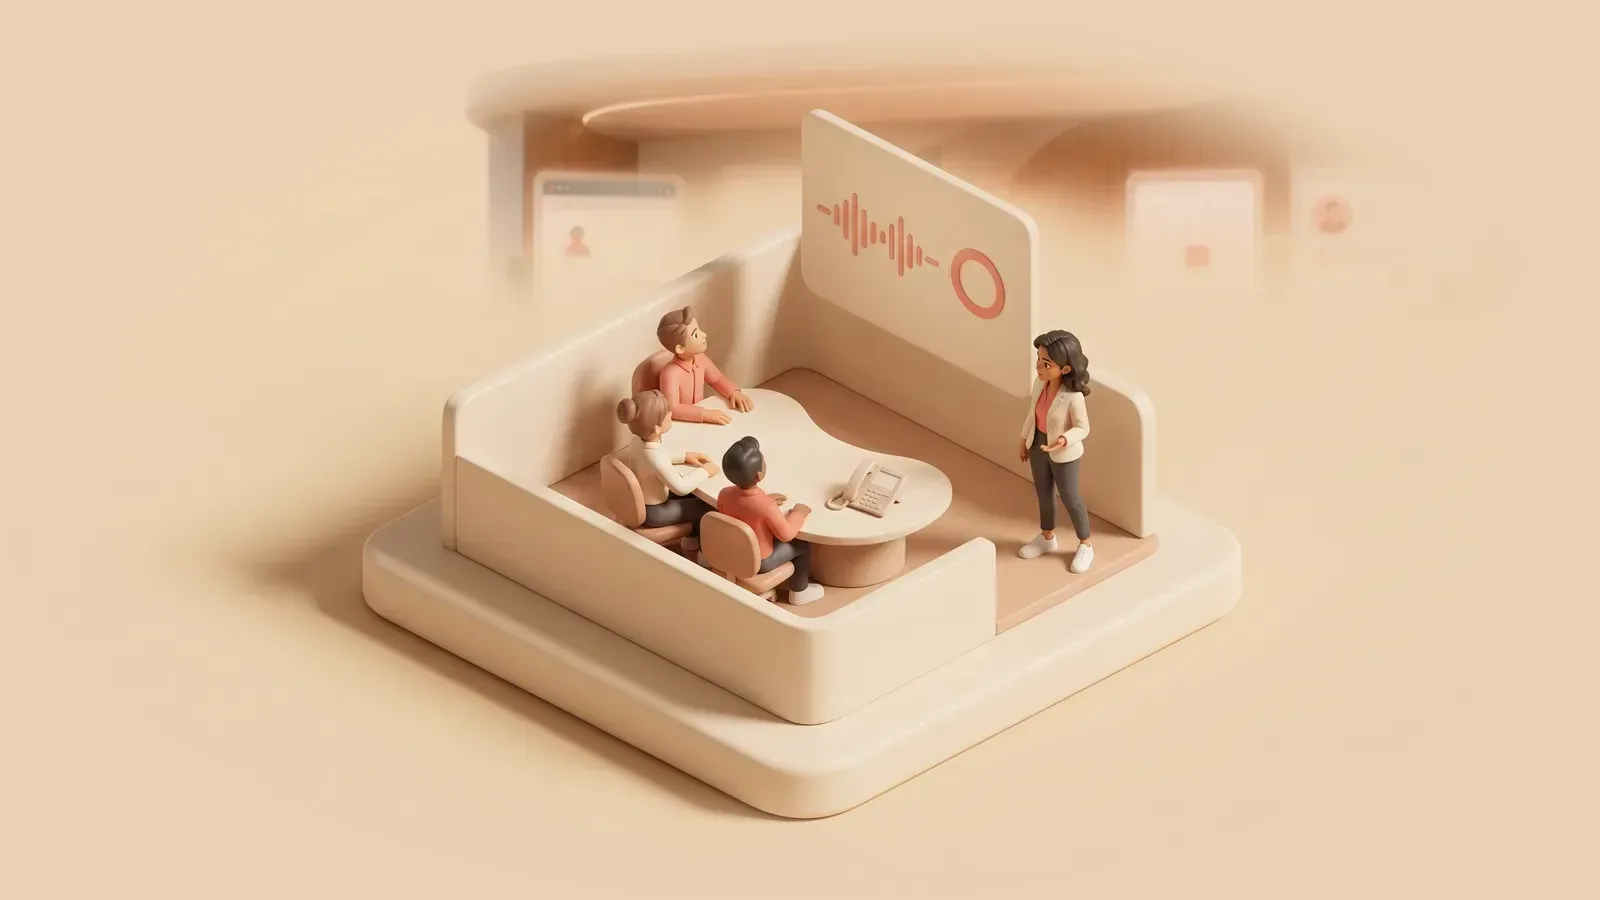
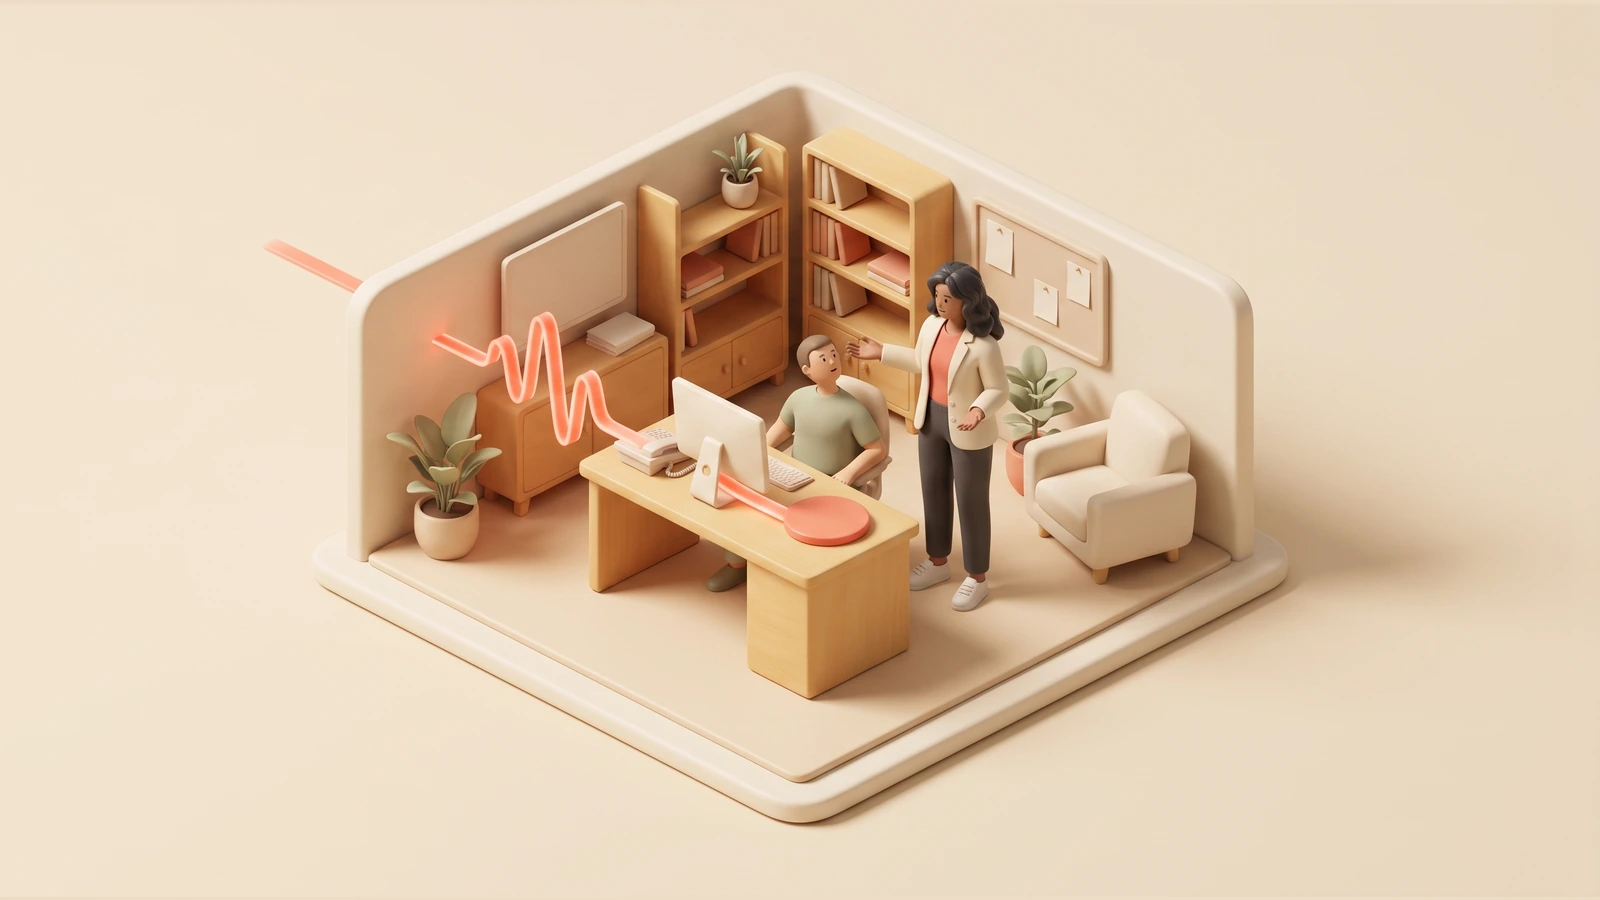
Land the receipt room, and drop the three.js experiment
The receipt chapter has carried blurred ghost interface panels in its background
since it was first rendered — a browser window with an avatar, two cards and a
smeared curve floating behind the room. Two attempts to replace it failed: the
first kept the ghosts, the second was conditioned on the commerce plate and came
back a near-duplicate of it, headsets and scooter and all.

The third works because the reference changed. Conditioned on the property
office — a quiet two-person room rather than a dispatch floor — with headsets,
cartons, the scooter and the handover ruled out by name, and the scene written
as what the chapter actually says: the waveform arrives from outside, crosses
the room and settles into one still coral disc on the desk. It is the only room
in the world where the signal lands rather than leaves, which is the point of
the chapter.

Flattened at quality 92 rather than 82. At 82 the plate's own drop shadow left
the four corners spanning five points, which against flat cream is a visible
rectangle; the higher quality and a tighter feather bring it to two.

The three.js scene is removed rather than parked. It built the seven rooms from
procedural primitives — boxes, capsules, cylinders in a clay palette — with a
scroll-driven camera on a Catmull-Rom path, WebGL and reduced-motion fallbacks,
and it worked. It also looked like boxes and capsules, because that is what it
was. The reference we are aiming at is sculpted geometry made by 3D artists, and
[…]

diff --git a/components/story/ScrollStory.tsx b/components/story/ScrollStory.tsx
@@ -548,7 +548,7 @@ function buildChapters(
       chips: [call.outcome, '100% QA-scored', 'Credits, not minutes'],
       art: '/media/story/decibyl-room-05-call-receipt.webp',
       blend: 'soft',
-      ground: '#ead1b3',
+      ground: '#eddcc7',
       drawn: 'outcome',
       href: '/book-a-demo',
       linkLabel: 'Book a demo call',
